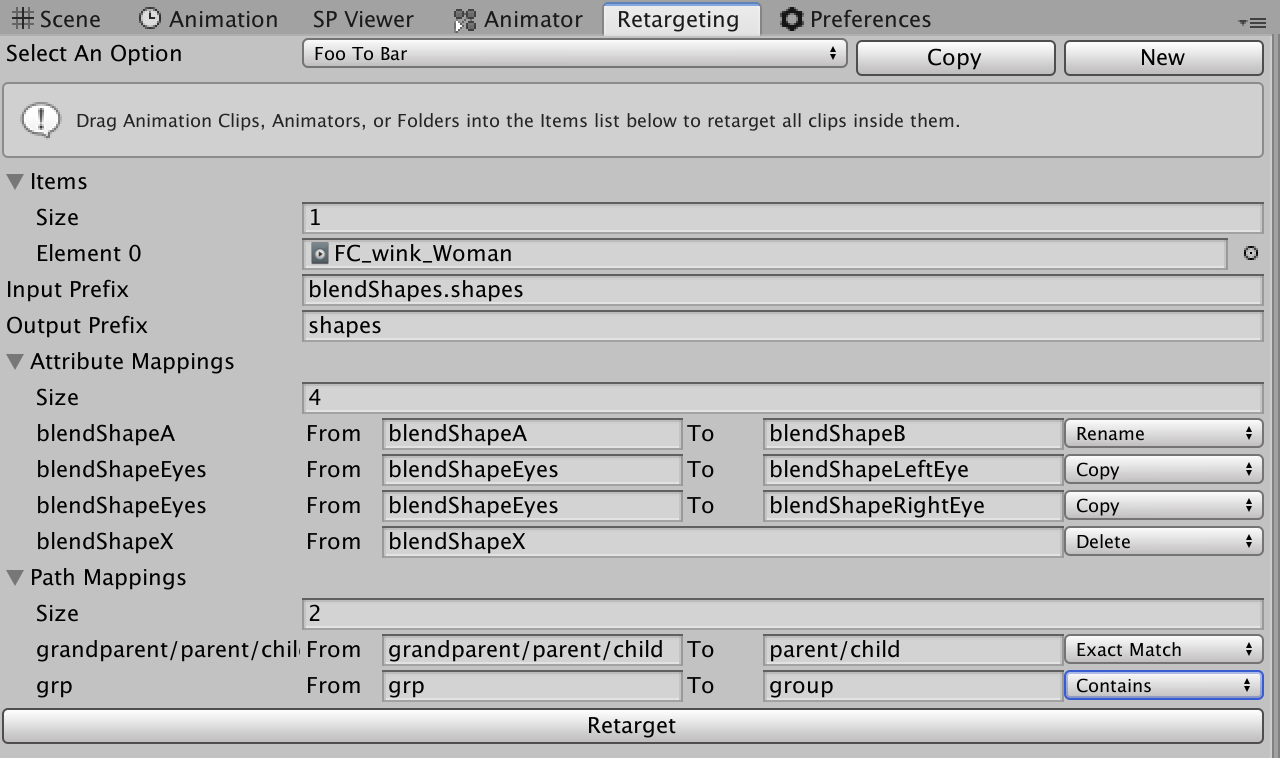
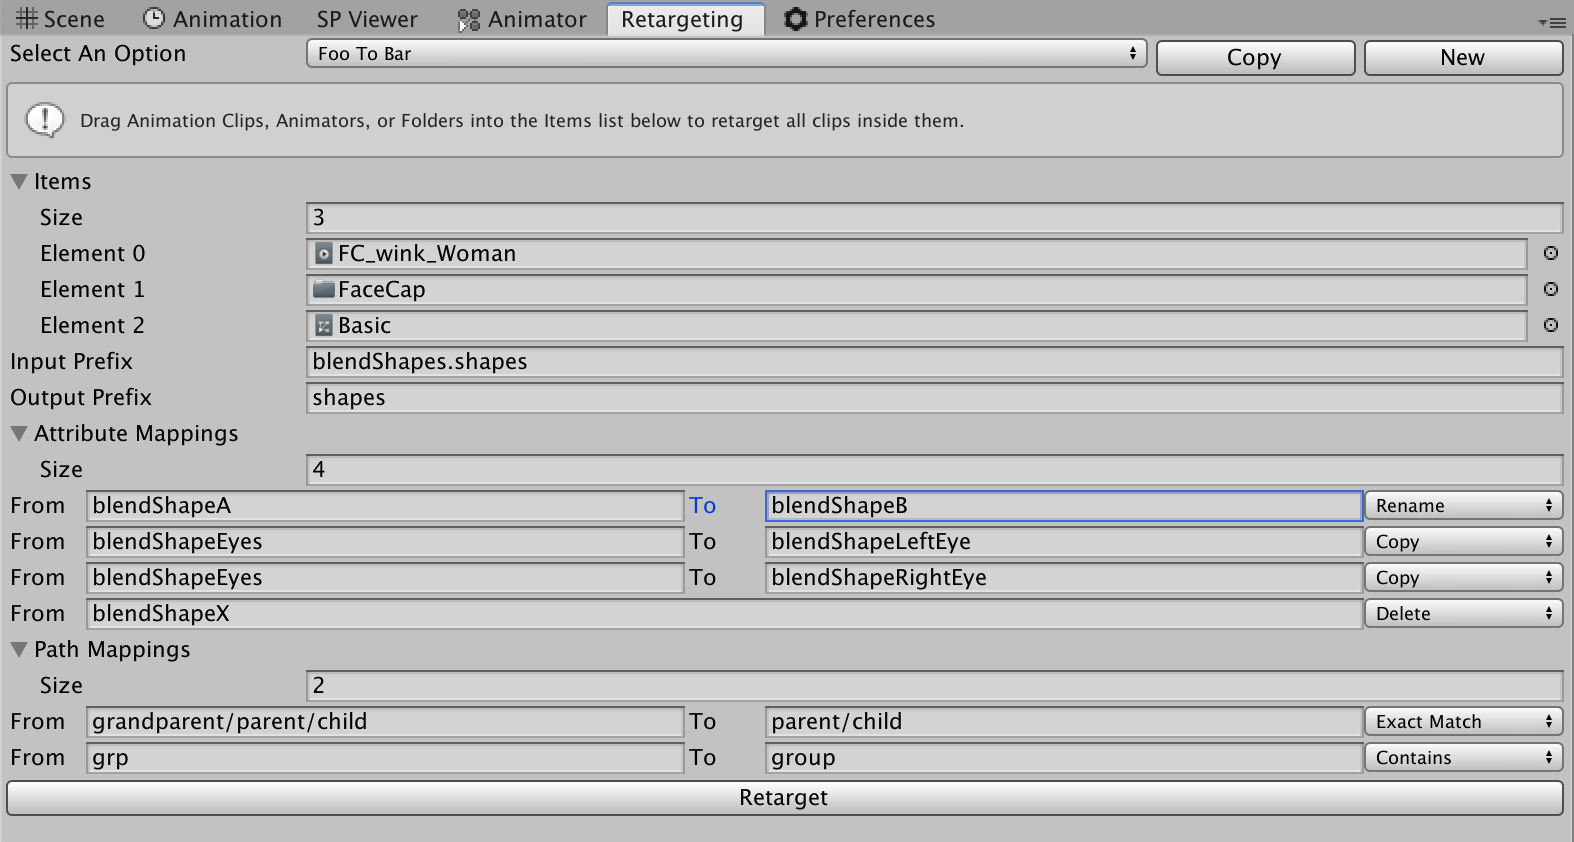
Fixing some graphical issues, and improving the screenshot.

Changed region(s): [[0.0, 0.0, 1.0, 1.0]]

diff --git a/Editor/AttributeMappingDrawer.cs b/Editor/AttributeMappingDrawer.cs
@@ -14,9 +14,6 @@ namespace com.enemyhideout.retargeting
             // prefab override logic works on the entire property.
             EditorGUI.BeginProperty(position, label, property);
 
-            // Draw label
-            position = EditorGUI.PrefixLabel(position, GUIUtility.GetControlID(FocusType.Passive), label);
-
             // Don't make child fields be indented
             var indent = EditorGUI.indentLevel;
             EditorGUI.indentLevel = 0;

diff --git a/Editor/PathMappingDrawer.cs b/Editor/PathMappingDrawer.cs
@@ -14,9 +14,6 @@ namespace com.enemyhideout.retargeting
             // prefab override logic works on the entire property.
             EditorGUI.BeginProperty(position, label, property);
 
-            // Draw label
-            position = EditorGUI.PrefixLabel(position, GUIUtility.GetControlID(FocusType.Passive), label);
-
             // Don't make child fields be indented
             var indent = EditorGUI.indentLevel;
             EditorGUI.indentLevel = 0;
